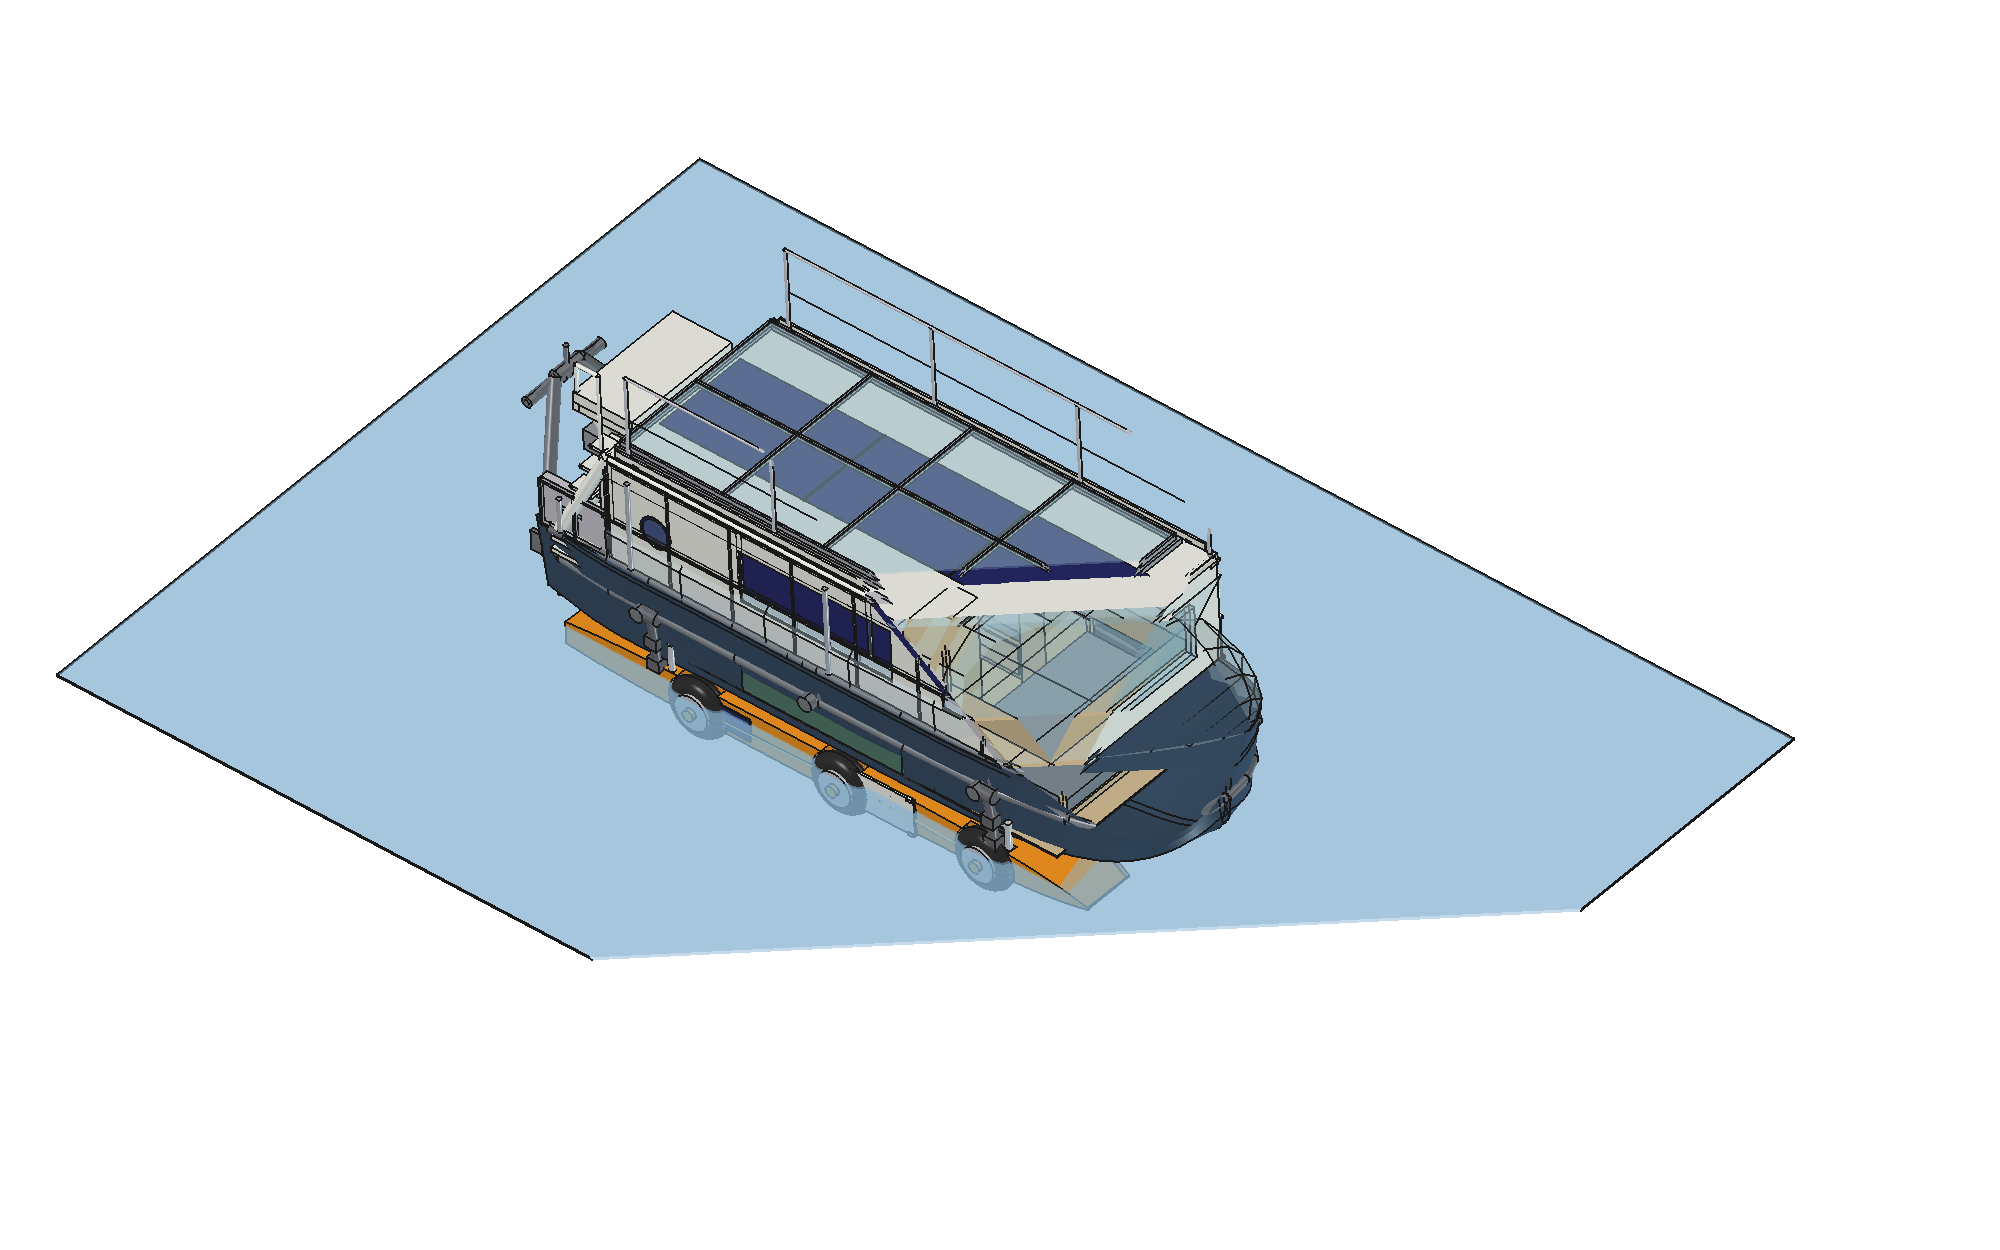
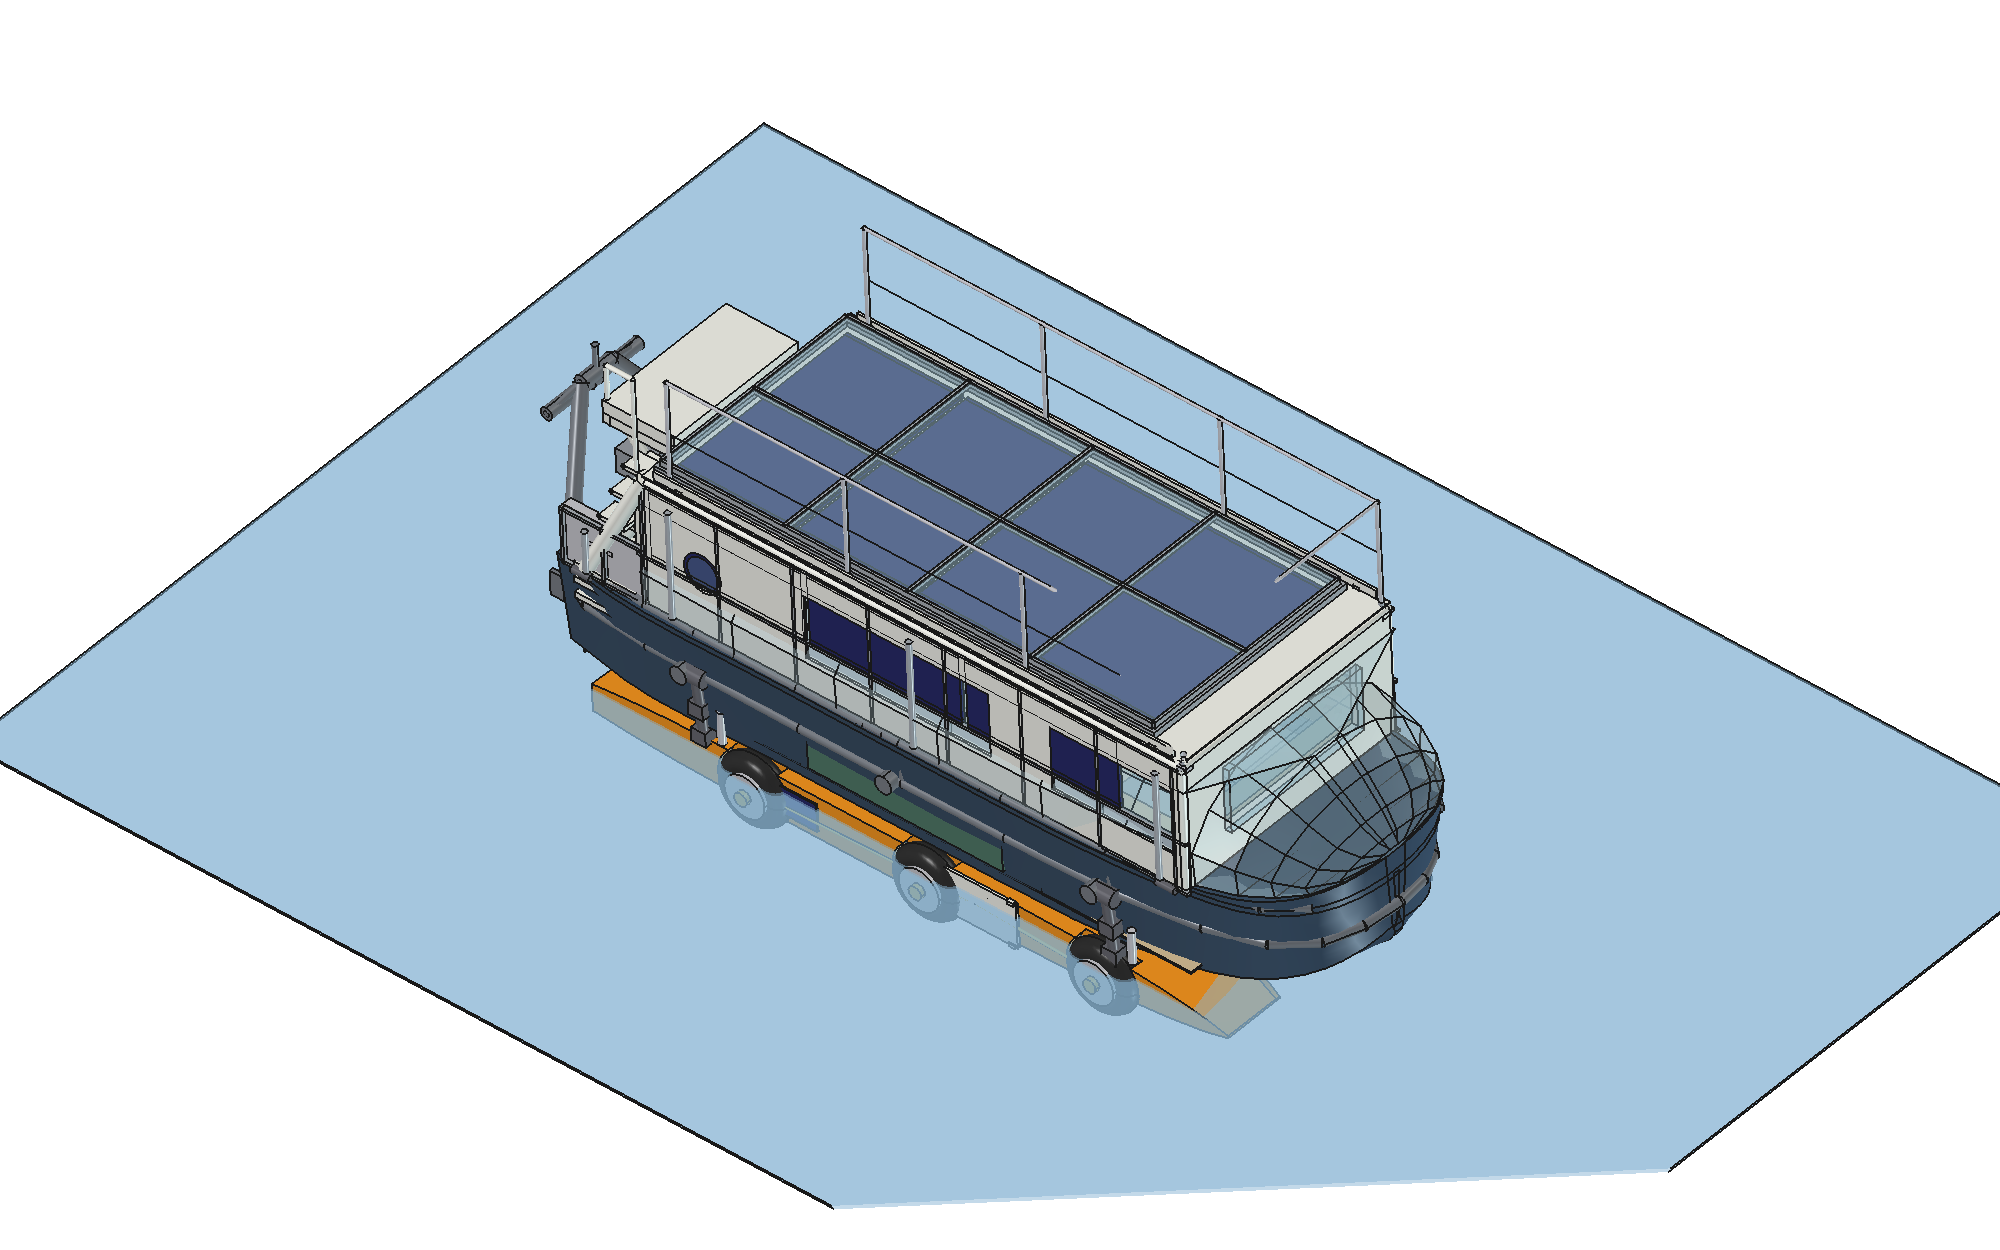
Fix roof panels running off the boat; standard 500 W modules
Five laminates were laid at 1700 pitch from x 1040, so the last two ran
to x 7920 - past the bow and hanging in space. The count was set
without checking the layout against the field.

Fixed at the root: deck_panel_xy() in params.py now computes the panel
positions, build_terrace() draws exactly those, and checks() asserts
every module lies inside the field in both axes. Geometry and checks
can no longer disagree.

Roof panels are now standard 500 W framed modules (1934 x 1134 x 30,
24 kg) per Max, laid across the field - four fit, 2.00 kWp. They live
inside the 60 mm air box under the glass, so they are replaceable at
any solar shop. Costs 96 kg against bonded laminates.

A 500 W module cannot go on the balconies: 1134 wide against a 1200
span that must also carry a 480 walkway, and the fold height caps the
span at 1431. Balconies keep the largest standard panel that fits the
690 strip. System 2.99 kWp nominal, 2.82 effective.

diff --git a/freecad/params.py b/freecad/params.py
@@ -40,7 +40,7 @@ ROOF_STRUCT = 200        # sandwich depth of the cabin roof = terrace floor
 CABIN_CEIL_Z = CABIN_ROOF_Z - ROOF_STRUCT
 # deck build-up over the structural roof: bonded laminate, air box,
 # grid and glass. There is no lid and nothing lifts any more.
-DECK_BUILDUP = 4 + 60 + 55 + 12   # laminate + air box + grid + glass
+DECK_BUILDUP = 60 + 55 + 12   # air box (holds the module) + grid + glass
 CANOPY_OVERHANG = -20    # kept: the folded balcony clearance references it
 WIN_Z0, WIN_H = 1500, 600          # window band (taller with the new roof)
 # FEWER, BIGGER windows (Max): two picture windows per side instead of
@@ -347,9 +347,15 @@ RAIL_H = 1000
 LIFELINE_N = 2
 LIFELINE_D = 6
 
-# deck laminates: same flexible panel as everywhere else, bonded down
-DECK_PANELS = 5                    # 5 x 1700 x 1130 fits the field
-PANEL_W_PEAK = 430                 # W per laminate
+# Roof field: STANDARD 500 W FRAMED MODULES (Max) laid ACROSS the
+# field under the glass — 1934 x 1134 x 30, ~24 kg, the common 2026
+# 500 W format. They sit in the 60 mm air box with 30 mm to spare,
+# and being standard they are replaceable anywhere.
+MODULE_500 = (1934, 1134, 30)      # long side, short side, thickness
+MODULE_500_W = 500
+MODULE_500_KG = 24
+DECK_PANELS = 4                    # what actually fits — see deck_panel_xy()
+PANEL_W_PEAK = MODULE_500_W        # W per roof module
 GLASS_TRANSMISSION = 0.91          # low-iron laminated
 COOLING_GAIN = 1.05                # ventilated cells vs bonded
 
@@ -371,6 +377,20 @@ def glass_t_udl(span, q=None, sigma=None):
     q = DECK_LOAD_UDL if q is None else q
     sigma = DECK_GLASS_SIGMA if sigma is None else sigma
     return math.sqrt(0.287 * q * span * span / sigma)
+
+
+def deck_panel_xy():
+    """Positions of the roof modules, laid ACROSS the field (short side
+    along the boat, long side athwartships). ONE source of truth for
+    the geometry and for checks(), so a panel can never again be drawn
+    hanging off the end of the boat."""
+    mod_l, mod_w, _ = MODULE_500
+    fx0, fx1 = DECK_FIELD_X
+    pitch = mod_w + 40
+    n = min(DECK_PANELS, int((fx1 - fx0 - 40) // pitch))
+    run = n * pitch - 40
+    x0 = fx0 + (fx1 - fx0 - run) / 2
+    return [(x0 + i * pitch, -mod_l / 2) for i in range(n)]
 
 
 def deck_areas():
@@ -743,12 +763,22 @@ def checks(verbose=True):
     # deflection of the pane under the distributed load, alpha for a
     # simply supported square plate; limit span/300
     defl = 0.0443 * DECK_LOAD_UDL * pane_y ** 4 / (70000 * DECK_GLASS_T ** 3)
-    deck_kg = deck_mass()
+    deck_kg = deck_mass() + DECK_PANELS * MODULE_500_KG
     air_draft = CABIN_ROOF_Z + DECK_BUILDUP - WL_Z
     kwp_deck, kwp_balc, kwp_eff = solar_kwp()
     # four people hard to one side of the terrace vs the float righting
     m_heel_crew = 4 * 85 * 9.81 * (CABIN_W / 2 - 100) / 1e6      # kNm
 
+    mod_l, mod_w, mod_t = MODULE_500
+    lam = deck_panel_xy()
+    assert len(lam) == DECK_PANELS, \
+        f"only {len(lam)} of {DECK_PANELS} roof laminates fit the field"
+    for (lx, ly) in lam:
+        assert DECK_FIELD_X[0] <= lx and lx + mod_w <= DECK_FIELD_X[1], \
+            f"roof module at x {lx:.0f} runs off the field"
+        assert ly >= -DECK_FIELD_HW and ly + mod_l <= DECK_FIELD_HW, \
+            f"roof module spans y {ly:.0f}..{ly + mod_l:.0f} of " \
+            f"+/-{DECK_FIELD_HW}"
     assert DECK_PANE_NX * pane_x <= DECK_FIELD_X[1] - DECK_FIELD_X[0], \
         "glass panes do not fit the field lengthwise"
     assert DECK_PANE_NY * pane_y <= 2 * DECK_FIELD_HW, \
@@ -760,8 +790,9 @@ def checks(verbose=True):
         f"({t_point:.1f} needed)"
     assert defl <= pane_y / 300, \
         f"pane deflects {defl:.1f} mm, limit {pane_y / 300:.1f}"
-    assert AIRBOX_H >= 50, f"air box only {AIRBOX_H} mm — panels get cooked"
-    assert DECK_BUILDUP == PANEL_T + AIRBOX_H + DECK_FRAME_H + DECK_GLASS_T, \
+    assert AIRBOX_H >= mod_t + 20, \
+        f"air box {AIRBOX_H} too shallow for a {mod_t} mm framed module"
+    assert DECK_BUILDUP == AIRBOX_H + DECK_FRAME_H + DECK_GLASS_T, \
         "deck build-up does not add up"
     assert RAIL_H >= 1000, f"guardrail {RAIL_H} mm too low for a roof deck"
     assert interior_clear >= 1800, f"interior clear only {interior_clear}"
@@ -825,10 +856,13 @@ def checks(verbose=True):
               f"{DECK_PANE_NY} panes {pane_x}x{pane_y}, glass "
               f"{DECK_GLASS_T} mm (point load needs {t_point:.1f}, "
               f"UDL {t_udl:.1f}), deflection {defl:.1f} mm")
-        print(f"deck build-up   {DECK_BUILDUP} mm = laminate {PANEL_T} + "
-              f"air box {AIRBOX_H} + grid {DECK_FRAME_H} + glass "
-              f"{DECK_GLASS_T};  mass {deck_kg:.0f} kg, shading "
-              f"{shade * 100:.1f}%")
+        print(f"deck build-up   {DECK_BUILDUP} mm = air box {AIRBOX_H} "
+              f"(holds a {mod_t} mm module) + grid {DECK_FRAME_H} + glass "
+              f"{DECK_GLASS_T};  mass {deck_kg:.0f} kg incl. modules, "
+              f"shading {shade * 100:.1f}%")
+        print(f"roof modules    {DECK_PANELS} x standard {mod_l}x{mod_w} "
+              f"{MODULE_500_W} W framed, laid across, "
+              f"{DECK_PANELS * MODULE_500_KG} kg")
         print(f"deck loads      {DECK_LOAD_UDL * 1000:.1f} kN/m2 + "
               f"{DECK_LOAD_POINT / 1000:.1f} kN point; crew one side "
               f"{m_heel_crew:.1f} vs righting {m_right:.1f} kNm")

diff --git a/freecad/build_boat.py b/freecad/build_boat.py
@@ -201,11 +201,13 @@ def build_terrace(rails=True):
     fhw = P.DECK_FIELD_HW
     px, py = P.DECK_PANE
 
-    # 1. flexible laminates bonded flat on the deck
-    for i in range(P.DECK_PANELS):
-        lam.append(box(P.PANEL_L, P.PANEL_W, P.PANEL_T,
-                       (fx0 + 40 + i * (P.PANEL_L + 20), -P.PANEL_W / 2,
-                        z0 + 12)))
+    # 1. standard 500 W framed modules inside the air box, laid ACROSS
+    #    the field; positions come from params so they cannot drift
+    mod_l, mod_w, mod_t = P.MODULE_500
+    for (lx, ly) in P.deck_panel_xy():
+        lam.append(box(mod_w, mod_l, mod_t, (lx, ly, z0 + 12)))
+        for edge in (ly, ly + mod_l - 30):          # alu frame edges
+            lam.append(box(mod_w, 30, mod_t + 4, (lx, edge, z0 + 12)))
 
     # 2. perimeter kerb of the air box, with vent slots fore and aft
     kerb = box(fx1 - fx0 + 80, 2 * fhw + 80, P.AIRBOX_H,

diff --git a/docs/roof.md b/docs/roof.md
@@ -13,8 +13,8 @@ The cabin roof at z 2 400 is a 200 mm structural sandwich. On top of it:
 ```
    ▓▓▓▓▓▓  6+6 laminated heat-strengthened glass, anti-slip frit
    ──┬───  alu grid, 8 panes of 1200 × 1050, bolted to deck inserts
-     │ 60  VENTILATED AIR BOX — mesh slots fore and aft, drains
-   ░░┴░░░  flexible laminates, bonded flat
+     │ 60  VENTILATED AIR BOX — holds a 30 mm framed module,
+   ░░┴░░░  4 × STANDARD 500 W modules 1934 × 1134, laid across
    ██████  200 mm roof sandwich  ← carries every load
    ██████  cabin ceiling 2 200
 ```
@@ -23,8 +23,20 @@ The cabin roof at z 2 400 is a 200 mm structural sandwich. On top of it:
 never be touched, stepped on, or scuffed. The air box ventilates the
 cells, so they run cooler than laminates bonded straight to a deck.
 
-Total build-up **131 mm**, so the deck surface sits at 2 531, the air
-draft is **2 271** and the road height **3 013** against the 4 000 limit.
+Total build-up **127 mm**, so the deck surface sits at 2 531, the air
+draft is **2 267** and the road height **3 009** against the 4 000 limit.
+
+The roof panels are **standard 500 W framed modules** (1 934 × 1 134 ×
+30, ≈24 kg) rather than bonded laminates — Max's call, and the right
+one: they are the cheapest watt on the market, replaceable at any solar
+shop, and the 60 mm air box swallows their 30 mm frame with room to
+spare. They cost ≈72 kg more than flexible laminates would.
+
+Four of them fit the 4 800 × 2 100 field laid **across** the boat
+(1 134 along, 1 934 athwartships). `deck_panel_xy()` in params.py
+computes those positions and `checks()` asserts every module lies
+inside the field — after an earlier version drew five laminates at
+1 700 pitch and put the last two off the bow.
 
 ## 2. Why the pop-top was deleted
 
@@ -97,19 +109,20 @@ a dropped anchor are all inside the envelope.
 | removed | kg | added | kg |
 |---|---|---|---|
 | canopy slab + frame | 145 | glass, 10.1 m² × 30 kg/m² | 302 |
+| | | 4 × 500 W framed modules | 96 |
 | scissors (4 units) | 88 | alu grid + kerb | 35 |
 | drives + controller | 36 | seals, adhesive, fixings | 15 |
 | latches, gaskets, coaming | 12 | | |
 | solar side walls | 60 | | |
-| **total** | **341** | **total** | **352** |
+| **total** | **341** | **total** | **448** |
 
-**Net ≈ +11 kg.** This is not a weight saving — it is the same mass
-bought as fixed structure instead of mechanism.
+**Net ≈ +107 kg**, of which 96 is the choice of standard framed modules
+over bonded laminates. Not a weight saving — mass bought as fixed
+structure and replaceable parts instead of mechanism.
 
-Solar: **4.73 kWp nominal** (deck 5 laminates = 2.15, balconies 2.58)
-against 6.88 before; the four side-wall panels went with the raised
-roof that carried them. After glass transmission (91 %), frame shading
-(4.4 %) and the ventilation gain (+5 %), reckon **≈ 4.5 kWp effective**.
+Solar: **2.99 kWp nominal** — roof 4 × 500 W = 2.00, balconies
+6 × 165 W = 0.99. After glass transmission (91 %), frame shading
+(4.4 %) and the ventilation gain (+5 %), **≈ 2.82 kWp effective**.
 
 Two limits worth stating plainly:
 
@@ -153,8 +166,12 @@ plane, and the modules drop **into** the frame instead of onto it:
 
 **What it costs.** Giving 480 mm of the 1 200 mm width to a walkway,
 and using small standard modules rather than full-size laminates, takes
-the balconies from 2.58 kWp to **0.99 kWp**. System total is now
-**3.14 kWp nominal / 2.95 effective** — roughly 15–18 kWh on a good
+the balconies to **0.99 kWp**. A 500 W module is 1 134 mm wide and will
+not fit beside a walkway on a 1 200 mm balcony (1 134 + 480 = 1 614,
+and the fold height caps the span at 1 431) — so the balconies use the
+largest standard panel that does fit the 690 mm strip. System total is
+now
+**2.99 kWp nominal / 2.82 effective** — roughly 15–17 kWh on a good
 summer day against the 50 kWh bank.
 
 If the walkways are ever judged not worth it, the swap is
@@ -169,9 +186,9 @@ the balconies become panel surfaces you do not stand on, with only the
 | 8 × walk-on laminated panes 1200 × 1050, 6+6 HS, frit | 3 200 |
 | Alu grid, kerb, standoffs, inserts | 700 |
 | Gaskets, structural adhesive, fixings | 350 |
-| 5 flexible laminates (bonded, under the glass) | 1 750 |
+| 4 standard 500 W framed modules (under the glass) | 520 |
 | Stanchions, lifelines, sockets | 340 |
-| **Roof deck total** | **≈ 6 340** |
+| **Roof deck total** | **≈ 5 110** |
 
 | Balconies (both sides) | Est. |
 |---|---|

diff --git a/README.md b/README.md
@@ -19,7 +19,7 @@ hydrostatic constraint is asserted in code.
 | Wheels | 6 × 205/70 R15 all-terrain, in-float hydraulic drive |
 | Floats | 6.2 m, ~1.55 t reserve each (82 %), righting SF ≈ 4.5 |
 | Water beam | 4.72 m (trimaran), floats fold flush under hull on road |
-| Solar | roof: 5 flexible laminates under walk-on glass; balconies: 6 standard framed 165 W modules — 3.14 kWp nominal / ~3.0 effective |
+| Solar | roof: 4 standard 500 W modules under walk-on glass; balconies: 6 standard 165 W modules — 2.99 kWp nominal / ~2.8 effective |
 | Structure | external steel frame (ladder loop) carries all arm/balcony/tow loads — nothing crosses the cabin |
 | Tow | stern-first; A-arch pin-locked: sea gantry / extensible drawbar, +100 kg tongue |
 | Stern gear | 2 t electric self-recovery winch + anchor on a transom roller |
